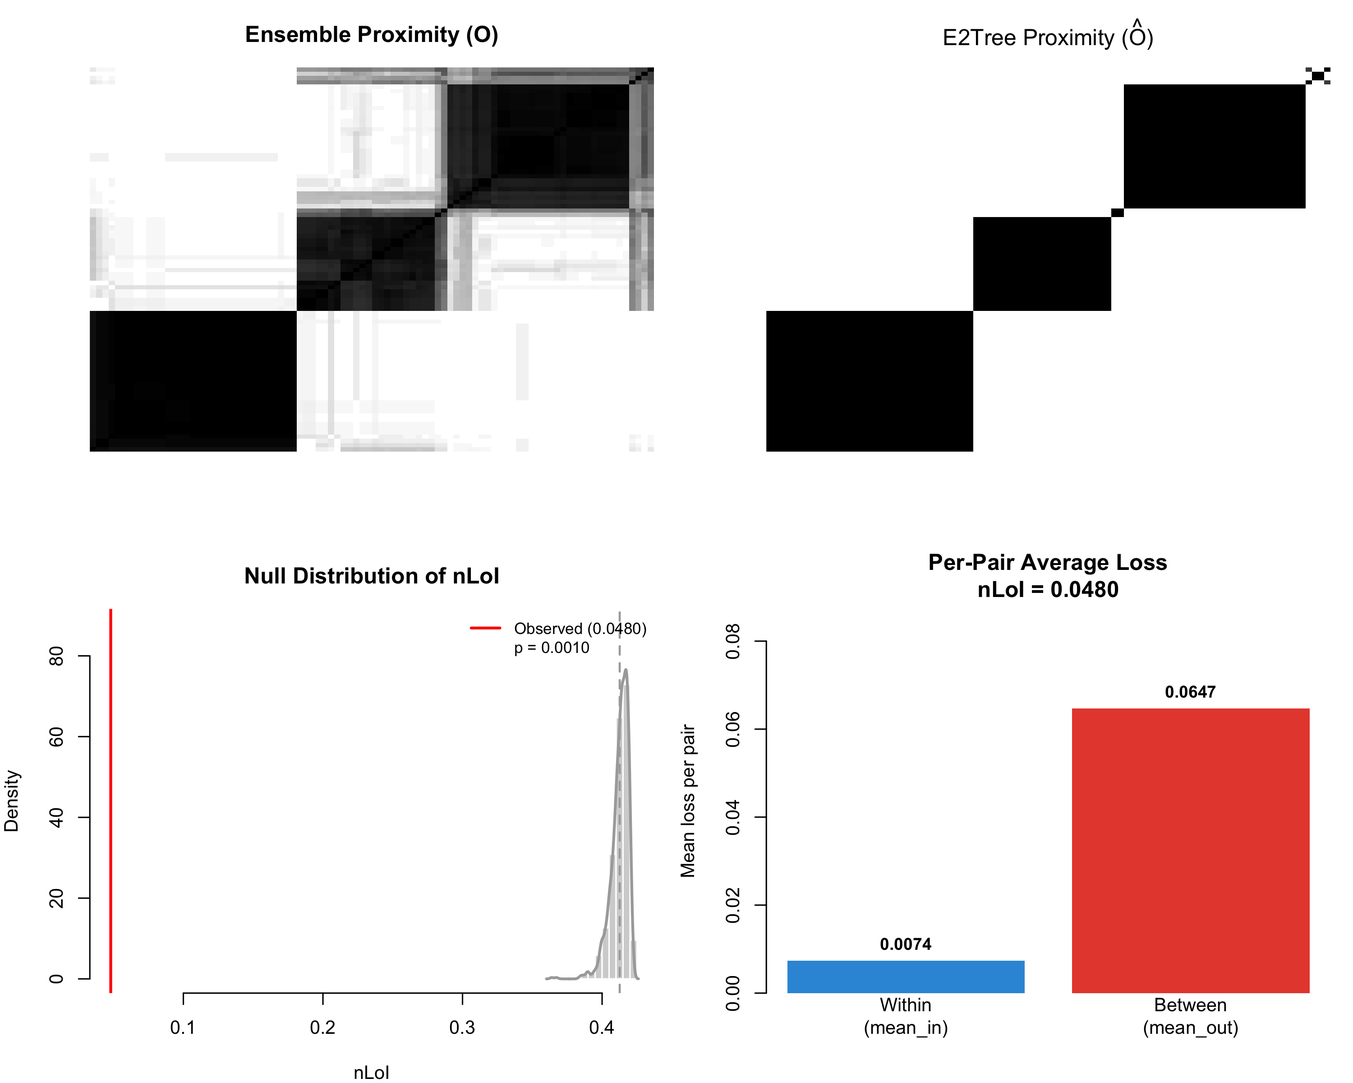
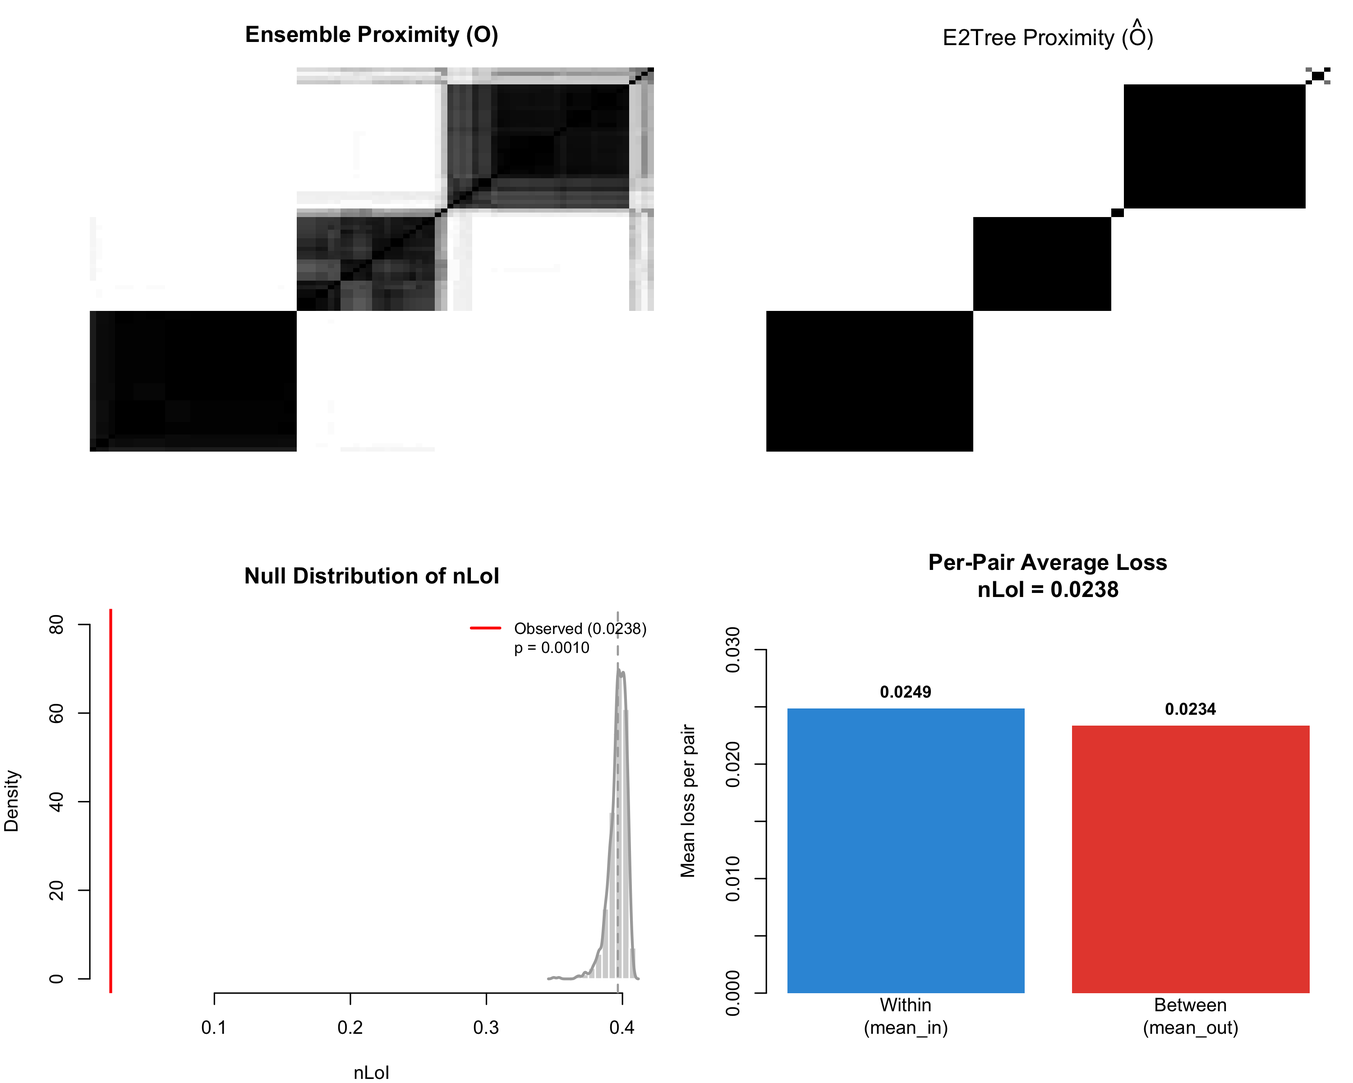
NEWS, README and vignettes for the 1.3.0 defaults
- NEWS: the new default scale of eValidation(), the loi_perm() interval
  and the localLoI() obs column are listed among the breaking changes;
  eValidation() returns leaves; Aria et al. 2026 for Wt, as in CITATION;
  loi_perm() already had `seed`, it gains `n_boot` and `leaves`.
- README.Rmd and vignettes: measures on the proximity scale by default,
  leaves passed to loi() and loi_perm(), an example with bootstrap
  intervals and the equivalence test. README.md regenerated.
- models vignette: multi-backend support starts with 1.2.0 (1.1.0 was a
  development version, never released on CRAN).

diff --git a/README.md b/README.md
@@ -497,14 +497,15 @@ nLoI \>= `delta`.
 
 Two details matter when comparing with the nLoI paper:
 
-- **Scale.** By default (`transform = "sqrt"`) the measures are computed
-  on the square roots of the proximity matrices. The scale on which they
-  are defined in the paper is the proximities themselves, which
-  `transform = "none"` gives.
+- **Scale.** The measures are computed on the proximities themselves
+  (`transform = "none"`, the default), the scale on which they are
+  defined. Versions up to 1.2.0 used the square roots of the two
+  matrices, which `transform = "sqrt"` reproduces.
 - **Leaf weights in regression.** The E2Tree proximity uses the leaf
   weight `Wt`, the normalized-variance index, which can be zero for
   leaves that are too heterogeneous. Within-node pairs are then
-  identified from the leaves of the tree and not from `O_hat > 0`.
+  identified from the leaves of the tree and not from `O_hat > 0`; the
+  leaf of each row of the matrices is returned as `val$leaves`.
 
 ### Running the validation
 
@@ -518,24 +519,25 @@ val <- eValidation(training, tree, D, test = "both", graph = FALSE, n_perm = 999
 print(val)
 #> 
 #>   E2Tree Validation
-#>   Matrix dimension: 90 x 90   Pairs: 4005   Scale: sqrt(O)
-#>   Mantel test (ape): z = 1046.09, p = 0.0010
+#>   Matrix dimension: 90 x 90   Pairs: 4005   Scale: O
+#>   Mantel test (ape, O-hat vs 1 - D): z = 1046.09, p = 0.0010 (two-sided)
 #> 
 #>   --------------------------------------------------------------------------------------------
 #>   Measure           Observed Null mean    kappa         Z   p-value
 #>   --------------------------------------------------------------------------------------------
-#>   nLoI       [div]    0.0480    0.4128    0.884    -56.66     0.001 
-#>   sqrt_nLoI  [div]    0.2190    0.6423    0.659    -83.83     0.001 
-#>   Hellinger  [div]    0.2154    0.6250    0.655    -81.19     0.001 
-#>   wRMSE      [div]    0.1700    0.8406    0.798   -142.36     0.001 
-#>   RV         [sim]    0.9674    0.3294    0.951    +57.04     0.001 
-#>   SSIM       [sim]    0.6420    0.0088    0.639   +116.47     0.001 
-#>   Mantel     [sim]    0.9566    0.0006    0.957    +57.04     0.001 
+#>   nLoI       [div]    0.0238    0.3969    0.940    -56.78     0.001 
+#>   sqrt_nLoI  [div]    0.1543    0.6298    0.755    -90.49     0.001 
+#>   Hellinger  [div]    0.1367    0.6179    0.779    -92.67     0.001 
+#>   wRMSE      [div]    0.1646    0.8546    0.807   -140.57     0.001 
+#>   RV         [sim]    0.9835    0.3054    0.976    +55.43     0.001 
+#>   SSIM       [sim]    0.8311    0.0110    0.829   +142.89     0.001 
+#>   Mantel     [sim]    0.9769    0.0008    0.977    +55.43     0.001 
 #>   --------------------------------------------------------------------------------------------
 #>   Permutations: 999 (row/column, shared by all measures)
-#>   LoI decomposition (per-pair averages): mean_in = 0.0074, mean_out = 0.0647
+#>   LoI decomposition (per-pair averages): mean_in = 0.0249, mean_out = 0.0234
 #> 
 #>   [div] lower = better; [sim] higher = better. kappa: 1 = perfect, 0 = random relabelling.
+#>   Mantel row: Pearson correlation of the off-diagonal entries, on the scale above.
 #>   The permutation test assesses association only; fidelity is judged by the
 #>   observed values, kappa and their confidence intervals.
 ```
@@ -546,24 +548,25 @@ print(val)
 summary(val)
 #> 
 #>   E2Tree Validation
-#>   Matrix dimension: 90 x 90   Pairs: 4005   Scale: sqrt(O)
-#>   Mantel test (ape): z = 1046.09, p = 0.0010
+#>   Matrix dimension: 90 x 90   Pairs: 4005   Scale: O
+#>   Mantel test (ape, O-hat vs 1 - D): z = 1046.09, p = 0.0010 (two-sided)
 #> 
 #>   --------------------------------------------------------------------------------------------
 #>   Measure           Observed Null mean    kappa         Z   p-value
 #>   --------------------------------------------------------------------------------------------
-#>   nLoI       [div]    0.0480    0.4128    0.884    -56.66     0.001 
-#>   sqrt_nLoI  [div]    0.2190    0.6423    0.659    -83.83     0.001 
-#>   Hellinger  [div]    0.2154    0.6250    0.655    -81.19     0.001 
-#>   wRMSE      [div]    0.1700    0.8406    0.798   -142.36     0.001 
-#>   RV         [sim]    0.9674    0.3294    0.951    +57.04     0.001 
-#>   SSIM       [sim]    0.6420    0.0088    0.639   +116.47     0.001 
-#>   Mantel     [sim]    0.9566    0.0006    0.957    +57.04     0.001 
+#>   nLoI       [div]    0.0238    0.3969    0.940    -56.78     0.001 
+#>   sqrt_nLoI  [div]    0.1543    0.6298    0.755    -90.49     0.001 
+#>   Hellinger  [div]    0.1367    0.6179    0.779    -92.67     0.001 
+#>   wRMSE      [div]    0.1646    0.8546    0.807   -140.57     0.001 
+#>   RV         [sim]    0.9835    0.3054    0.976    +55.43     0.001 
+#>   SSIM       [sim]    0.8311    0.0110    0.829   +142.89     0.001 
+#>   Mantel     [sim]    0.9769    0.0008    0.977    +55.43     0.001 
 #>   --------------------------------------------------------------------------------------------
 #>   Permutations: 999 (row/column, shared by all measures)
-#>   LoI decomposition (per-pair averages): mean_in = 0.0074, mean_out = 0.0647
+#>   LoI decomposition (per-pair averages): mean_in = 0.0249, mean_out = 0.0234
 #> 
 #>   [div] lower = better; [sim] higher = better. kappa: 1 = perfect, 0 = random relabelling.
+#>   Mantel row: Pearson correlation of the off-diagonal entries, on the scale above.
 #>   The permutation test assesses association only; fidelity is judged by the
 #>   observed values, kappa and their confidence intervals.
 #> 
@@ -573,27 +576,27 @@ summary(val)
 #>    Loss of Interpretability (LoI) --Decomposition
 #> ##############################################################################
 #> 
-#>   nLoI (normalized):   0.0480
-#>   LoI (raw):           192.1100
+#>   nLoI (normalized):   0.0238
+#>   LoI (raw):           95.3116
 #>   n = 90, pairs = 4005 (within: 1168, between: 2837)
 #> 
 #> ------------------------------------------------------------------------------
 #>   Component              Total       Pairs     Mean/pair
 #> ------------------------------------------------------------------------------
-#>   Within-node (LoI_in)    8.6039       1168     0.007366
-#>   Between-node (LoI_out)183.5062       2837     0.064683
+#>   Within-node (LoI_in)   29.0289       1168     0.024854
+#>   Between-node (LoI_out) 66.2827       2837     0.023364
 #> ------------------------------------------------------------------------------
 #> 
 #>   Per-pair interpretation (comparable across components):
 #> 
-#>     mean_in  = 0.007366  (avg calibration error within nodes)
-#>     mean_out = 0.064683  (avg ensemble proximity lost by separation)
+#>     mean_in  = 0.024854  (avg calibration error within nodes)
+#>     mean_out = 0.023364  (avg ensemble proximity lost by separation)
 #> 
 #>   Diagnostic: LOW mean_out. The partition correctly separates pairs
 #>   that have low ensemble proximity --the tree structure is well-placed.
 #> 
-#>   Diagnostic: LOW mean_in. Within-node proximity values closely
-#>   match the ensemble --excellent calibration.
+#>   Diagnostic: MODERATE mean_in. Some within-node calibration error,
+#>   typical of the fuzzy-to-crisp structural transition.
 #> 
 #> ##############################################################################
 ```
@@ -606,28 +609,36 @@ plot(val)
 
 <img src="man/figures/README-unnamed-chunk-26-1.png" alt="" width="100%" />
 
-**On the scale of the paper, with bootstrap intervals:**
+**With bootstrap intervals and an equivalence test** (H0: nLoI \>= 0.1):
 
 ``` r
-val_paper <- eValidation(training, tree, D, test = "measures", graph = FALSE,
-                         n_perm = 999, n_boot = 199, transform = "none", seed = 42)
-measures(val_paper)
-#>              method       type   observed    null_mean     null_sd     z_stat
-#> nLoI           nLoI divergence 0.02379816 3.968858e-01 0.006328491  -58.95365
-#> sqrt_nLoI sqrt_nLoI divergence 0.15426653 6.299786e-01 0.005048059  -94.23661
-#> Hellinger Hellinger divergence 0.13674034 6.180578e-01 0.005004481  -96.17731
-#> wRMSE         wRMSE divergence 0.16462378 8.548019e-01 0.004754145 -145.17397
-#> RV               RV similarity 0.98350707 3.049371e-01 0.011838679   57.31805
-#> SSIM           SSIM similarity 0.83109941 1.086159e-02 0.005709038  143.67355
-#> Mantel       Mantel similarity 0.97689017 1.509565e-05 0.017043061   57.31805
-#>           p_value     kappa   ci_lower   ci_upper
-#> nLoI        0.001 0.9400378 0.01247859 0.03621428
-#> sqrt_nLoI   0.001 0.7551242 0.11170731 0.19030050
-#> Hellinger   0.001 0.7787580 0.08625090 0.18057890
-#> wRMSE       0.001 0.8074129 0.13187447 0.19795346
-#> RV          0.001 0.9762713 0.97362860 0.99065051
-#> SSIM        0.001 0.8292447         NA         NA
-#> Mantel      0.001 0.9768898 0.96497040 0.98636848
+val_boot <- eValidation(training, tree, D, test = "measures", graph = FALSE,
+                        n_perm = 999, n_boot = 199, delta = 0.1, seed = 42)
+print(val_boot)
+#> 
+#>   E2Tree Validation
+#>   Matrix dimension: 90 x 90   Pairs: 4005   Scale: O
+#> 
+#>   --------------------------------------------------------------------------------------------
+#>   Measure           Observed Null mean    kappa         Z   p-value  95% bootstrap CI
+#>   --------------------------------------------------------------------------------------------
+#>   nLoI       [div]    0.0238    0.3969    0.940    -58.95     0.001  [0.0125, 0.0362] 
+#>   sqrt_nLoI  [div]    0.1543    0.6300    0.755    -94.24     0.001  [0.1117, 0.1903] 
+#>   Hellinger  [div]    0.1367    0.6181    0.779    -96.18     0.001  [0.0863, 0.1806] 
+#>   wRMSE      [div]    0.1646    0.8548    0.807   -145.17     0.001  [0.1319, 0.1980] 
+#>   RV         [sim]    0.9835    0.3049    0.976    +57.32     0.001  [0.9736, 0.9907] 
+#>   SSIM       [sim]    0.8311    0.0109    0.829   +143.67     0.001  -- 
+#>   Mantel     [sim]    0.9769    0.0000    0.977    +57.32     0.001  [0.9650, 0.9864] 
+#>   --------------------------------------------------------------------------------------------
+#>   Permutations: 999 (row/column, shared by all measures)
+#>   Bootstrap: 199 replicates (observations resampled); kappa(nLoI) CI [0.900, 0.970]
+#>   Equivalence test H0: nLoI >= 0.1000 -> upper 95% bound = 0.0333: fidelity established
+#>   LoI decomposition (per-pair averages): mean_in = 0.0249, mean_out = 0.0234
+#> 
+#>   [div] lower = better; [sim] higher = better. kappa: 1 = perfect, 0 = random relabelling.
+#>   Mantel row: Pearson correlation of the off-diagonal entries, on the scale above.
+#>   The permutation test assesses association only; fidelity is judged by the
+#>   observed values, kappa and their confidence intervals.
 ```
 
 ### Extracting results with accessors
@@ -637,28 +648,28 @@ Use accessor functions instead of direct `$` access:
 ``` r
 # Validation measures table
 measures(val)
-#>              method       type   observed   null_mean     null_sd     z_stat
-#> nLoI           nLoI divergence 0.04796755 0.412781685 0.006438700  -56.65959
-#> sqrt_nLoI sqrt_nLoI divergence 0.21901496 0.642323933 0.005049318  -83.83489
-#> Hellinger Hellinger divergence 0.21542068 0.625021454 0.005044737  -81.19368
-#> wRMSE         wRMSE divergence 0.16995523 0.840584726 0.004710777 -142.36068
-#> RV               RV similarity 0.96743746 0.329429934 0.011185735   57.03760
-#> SSIM           SSIM similarity 0.64198676 0.008751186 0.005436671  116.47487
-#> Mantel       Mantel similarity 0.95659031 0.000551734 0.016761549   57.03760
+#>              method       type   observed    null_mean     null_sd     z_stat
+#> nLoI           nLoI divergence 0.02379816 0.3968858147 0.006570923  -56.77857
+#> sqrt_nLoI sqrt_nLoI divergence 0.15426653 0.6297510104 0.005254363  -90.49327
+#> Hellinger Hellinger divergence 0.13674034 0.6178906040 0.005191854  -92.67408
+#> wRMSE         wRMSE divergence 0.16462378 0.8546208304 0.004908716 -140.56569
+#> RV               RV similarity 0.98350707 0.3054479467 0.012231951   55.43344
+#> SSIM           SSIM similarity 0.83109941 0.0110314260 0.005738992  142.89408
+#> Mantel       Mantel similarity 0.97689017 0.0007505837 0.017609218   55.43344
 #>           p_value     kappa
-#> nLoI        0.001 0.8837944
-#> sqrt_nLoI   0.001 0.6590272
-#> Hellinger   0.001 0.6553387
-#> wRMSE       0.001 0.7978131
-#> RV          0.001 0.9514405
-#> SSIM        0.001 0.6388261
-#> Mantel      0.001 0.9565664
+#> nLoI        0.001 0.9400378
+#> sqrt_nLoI   0.001 0.7550357
+#> Hellinger   0.001 0.7786981
+#> wRMSE       0.001 0.8073721
+#> RV          0.001 0.9762539
+#> SSIM        0.001 0.8292154
+#> Mantel      0.001 0.9768728
 
 # Proximity matrices
 prox <- proximity(val, type = "both")
 str(prox, max.level = 1)
 #> List of 2
-#>  $ ensemble: num [1:90, 1:90] 1 0.947 0.951 0.917 0.92 ...
+#>  $ ensemble: num [1:90, 1:90] 1 0.898 0.905 0.842 0.847 ...
 #>   ..- attr(*, "dimnames")=List of 2
 #>  $ e2tree  : num [1:90, 1:90] 1 1 1 1 1 1 1 1 1 1 ...
 #>   ..- attr(*, "dimnames")=List of 2
@@ -679,42 +690,44 @@ Since the number of within-node and between-node pairs can differ
 dramatically, the `loi()` function reports **per-pair averages**
 (`mean_in` and `mean_out`) that enable meaningful comparison:
 
-When some leaves have weight zero (possible in regression), pass the
-leaf of each row through the `leaves` argument, as `eValidation()` does
-internally; otherwise within-node pairs are identified by `O_hat > 0`.
+Pass the leaf of each row through the `leaves` argument, as
+`eValidation()` does internally: `val$leaves` follows the row order of
+the matrices returned by `eValidation()`. Without it, within-node pairs
+are identified by `O_hat > 0`, which misreads leaves of weight zero
+(possible in regression); the nLoI itself does not change.
 
 ``` r
 O <- proximity(val, type = "ensemble")
 O_hat <- proximity(val, type = "e2tree")
 
-result <- loi(O, O_hat)
+result <- loi(O, O_hat, leaves = val$leaves)
 summary(result)
 #> 
 #> ##############################################################################
 #>    Loss of Interpretability (LoI) --Decomposition
 #> ##############################################################################
 #> 
-#>   nLoI (normalized):   0.0480
-#>   LoI (raw):           192.1100
+#>   nLoI (normalized):   0.0238
+#>   LoI (raw):           95.3116
 #>   n = 90, pairs = 4005 (within: 1168, between: 2837)
 #> 
 #> ------------------------------------------------------------------------------
 #>   Component              Total       Pairs     Mean/pair
 #> ------------------------------------------------------------------------------
-#>   Within-node (LoI_in)    8.6039       1168     0.007366
-#>   Between-node (LoI_out)183.5062       2837     0.064683
+#>   Within-node (LoI_in)   29.0289       1168     0.024854
+#>   Between-node (LoI_out) 66.2827       2837     0.023364
 #> ------------------------------------------------------------------------------
 #> 
 #>   Per-pair interpretation (comparable across components):
 #> 
-#>     mean_in  = 0.007366  (avg calibration error within nodes)
-#>     mean_out = 0.064683  (avg ensemble proximity lost by separation)
+#>     mean_in  = 0.024854  (avg calibration error within nodes)
+#>     mean_out = 0.023364  (avg ensemble proximity lost by separation)
 #> 
 #>   Diagnostic: LOW mean_out. The partition correctly separates pairs
 #>   that have low ensemble proximity --the tree structure is well-placed.
 #> 
-#>   Diagnostic: LOW mean_in. Within-node proximity values closely
-#>   match the ensemble --excellent calibration.
+#>   Diagnostic: MODERATE mean_in. Some within-node calibration error,
+#>   typical of the fuzzy-to-crisp structural transition.
 #> 
 #> ##############################################################################
 ```
@@ -735,30 +748,32 @@ The per-pair averages provide actionable diagnostics:
 For a quick significance assessment:
 
 ``` r
-perm <- loi_perm(O, O_hat, n_perm = 999, n_boot = 199, seed = 42)
+perm <- loi_perm(O, O_hat, n_perm = 999, n_boot = 199, seed = 42,
+                 leaves = val$leaves)
 print(perm)
 #> 
 #> ==============================================================================
 #>    Permutation Test for Loss of Interpretability (LoI)
 #> ==============================================================================
 #> 
-#>   Observed nLoI:       0.0480
-#>   Null mean:           0.4128
-#>   Null SD:             0.0062
-#>   Z-statistic:         -58.5019
+#>   Observed nLoI:       0.0238
+#>   Null mean:           0.3969
+#>   Exact null mean:     0.3969   kappa = 0.940
+#>   Null SD:             0.0063
+#>   Z-statistic:         -58.9556
 #> 
 #> ------------------------------------------------------------------------------
 #>   Hypothesis Test (H1: nLoI < expected by chance)
 #> ------------------------------------------------------------------------------
 #>   p-value:             0.0010 **
-#>   95% CI:             [0.0230, 0.0775]
 #>   Permutations:        999 (row/column)
+#>   95% bootstrap CI:    [0.0125, 0.0362]  (199 replicates)
 #> 
 #> ------------------------------------------------------------------------------
 #>   Decomposition (per-pair averages)
 #> ------------------------------------------------------------------------------
-#>   mean_in  (within):   0.007366  (n_pairs = 1168)
-#>   mean_out (between):  0.064683  (n_pairs = 2837)
+#>   mean_in  (within):   0.024854  (n_pairs = 1168)
+#>   mean_out (between):  0.023364  (n_pairs = 2837)
 #> 
 #> ==============================================================================
 #>   Signif. codes: 0 '***' 0.001 '**' 0.01 '*' 0.05 '.' 0.1

diff --git a/NEWS.md b/NEWS.md
@@ -2,24 +2,28 @@
 
 ## Breaking changes
 
-* Regression E2Trees: the E2Tree proximity matrix O-hat now uses the leaf weight `Wt` (normalized-variance index of Aria et al., 2025) instead of the `prob` column, which held a residual sum of squares truncated at one. This is a bug fix and no option restores the previous values; validation measures of regression trees change accordingly (classification trees are unaffected, as they have no `Wt`).
+* `eValidation()` now computes the fidelity measures on the proximities O and O-hat themselves (`transform = "none"`, the new default), the scale on which the nLoI and the other measures are defined. Up to version 1.2.0 they were computed on the square roots of the two matrices: `transform = "sqrt"` reproduces those values. The change concerns every model, classification included, and also the matrices returned by `proximity()`.
+* Regression E2Trees: the E2Tree proximity matrix O-hat now uses the leaf weight `Wt` (normalized-variance index of Aria et al., 2026) instead of the `prob` column, which held a residual sum of squares truncated at one. This is a bug fix and no option restores the previous values; validation measures of regression trees change accordingly (classification trees are unaffected, as they have no `Wt`).
 * `eValidation()` output: the shifted permutation "confidence interval" has been removed. The measures table gains `kappa`, bootstrap intervals (`n_boot`), the equivalence test (`delta`), and the rows `sqrt_nLoI` and `Mantel`.
+* `loi_perm()`: the shifted permutation interval has been removed as well. `ci` is now a bootstrap percentile interval, computed only when `n_boot > 0`; with the default `n_boot = 0` it is `NA`, and `print()` and `plot()` omit it.
+* `localLoI()`: the `obs` column reports the original observation index instead of the position of the row in the matrices (see *Local LoI* below).
 * `e2tree()` (regression): when the split with the lowest impurity does not pass the Wilcoxon test, the next candidates, in order of impurity, are tried (at most 10) instead of closing the node. Together with the quantile binning of thresholds described below, this can change the regression trees grown from the same ensemble and dissimilarity matrix, which is itself unchanged. For instance, on the Boston housing data with `impTotal = 0.01, maxDec = 0.001, n = 5, level = 10` the tree goes from 21 to 29 leaves, almost all of it due to the fallback. The thresholds can be restored to all distinct values with `setting = list(..., max_thresholds = Inf)`; the fallback has no switch.
 
 ## Reconstruction-fidelity measures (revision of the nLoI paper)
 
-* `eValidation()` gains `transform = c("sqrt", "none")`. The default, `"sqrt"`, keeps the previous behaviour (measures on the square roots of O and O-hat); `transform = "none"` computes the measures on the proximities O and O-hat, the scale on which they are defined in the nLoI paper.
-* New measure `sqrt_nLoI`, the square root of the nLoI, which is a metric (the nLoI itself does not satisfy the triangle inequality). The Mantel correlation is now reported in the same table, using the same permutations.
+* `eValidation()` gains `transform = c("none", "sqrt")`, which sets the scale of the measures (see *Breaking changes*).
+* New measure `sqrt_nLoI`, the square root of the nLoI, which is a metric (the nLoI itself does not satisfy the triangle inequality). The Mantel correlation (Pearson correlation of the off-diagonal entries, on the scale set by `transform`) is now reported in the same table, using the same permutations. `print()` keeps it apart from the `ape::mantel.test()` line of `test = "both"` and `test = "mantel"`, a different statistic (sum of the cross-products of O-hat and 1 - D, two-sided p-value).
 * Chance-corrected fidelity `kappa` for every measure; the null mean of the nLoI is computed exactly in closed form.
 * Confidence intervals are obtained by an observation-level bootstrap (`n_boot`), and `delta` gives an equivalence test H0: nLoI >= delta.
-* `loi()` returns `sqrt_nloi`, `null_mean` and `kappa`, and gains `leaves`, so that the in-leaf/out-of-leaf decomposition is correct when some leaves have weight zero; `loi_perm()` gains `seed` and `n_boot`.
-* Measure computations are shared in a single internal core (`R/fidelity.R`); the permuted off-diagonal vector is extracted once per permutation and reused by all measures. SSIM is about three times faster (identical values) and no longer fails when the window is larger than n.
+* `eValidation()` returns `leaves`, the terminal node of each row of its matrices, named by the original observation index, ready for the `leaves` argument of `loi()`, `loi_perm()` and `localLoI()`.
+* `loi()` returns `sqrt_nloi`, `null_mean` and `kappa`, and gains `leaves`, so that the in-leaf/out-of-leaf decomposition is correct when some leaves have weight zero. `loi_perm()` gains `n_boot` and `leaves`, and its printout reports the exact null mean and `kappa`.
+* Measure computations are shared in a single internal core (`R/fidelity.R`); the permuted off-diagonal vector is extracted once per permutation and reused by all measures. SSIM is about three times faster (identical values) and no longer fails when the window is larger than n. `loi_perm()` computes only the nLoI at each permutation, without the decomposition, so it is faster, with the same values.
 
 ## Local LoI aligned with the nLoI paper
 
 * `localLoI()` now defines within- and between-leaf pairs from the actual leaves of the E2Tree, as `loi(leaves = )` does, instead of assuming that two observations share a leaf only if their O-hat is positive. In regression, leaves of weight zero have O-hat equal to zero also between their own members, so the former rule counted those pairs as between-leaf and inflated `loi_out` (by about 24% on a Boston tree with 9 such leaves). The global `nloi` was not affected. The partition is taken from the new `leaves` argument, from `fit`, or, failing both, from the blocks of O-hat; the last option cannot recognise leaves of weight zero and now warns when some observations have no within-leaf neighbour.
 * The proximity matrices returned by `eValidation()` are in hierarchical-clustering order, with the original observation indices as row names. `localLoI(fit = )` used to read the node ids in data order, so per-node values were attributed to the wrong observations. It now maps the leaves to the rows through the row names, and `obs` reports the original observation index.
-* The nLoI of the paper is defined on the proximities themselves: use `eValidation(..., transform = "none")` to obtain matrices on that scale.
+* The nLoI is defined on the proximities themselves, which is now the default scale of the matrices returned by `eValidation()`: `localLoI()` applied to them decomposes the nLoI on that scale without further arguments.
 
 ## Panel e2tree: new capabilities
 
